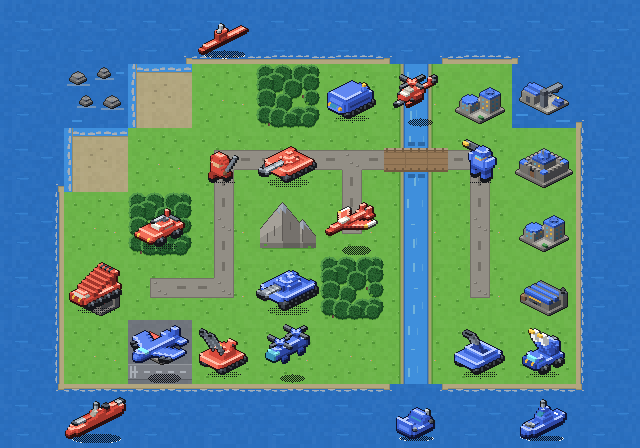
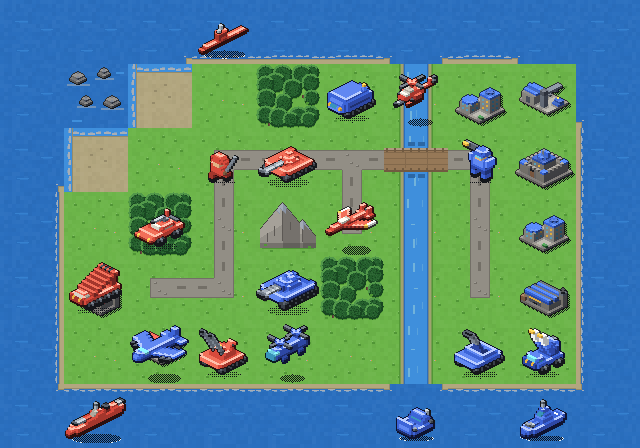
Ship the five property columns as transparent overlays
A property tile baked the plains green into its cell, so a city standing
on road, beach or apron wore a green square (design review rounds 4-5).
The five columns now carry the building, its own base plate and a
dithered drop shadow, and nothing else; the board paints the ground under
them and the building reads as an object on it.

The ground the consumer paints is the DEFAULT ground — plains, exactly
what these cells used to bake, so the look on grass is unchanged and no
map format learns about per-context ground. preview_map.png composes it
that way. terrain_atlas.png is RGBA now; the airport's runway and the
port's harbour water went with their ground plates.

The shadow is opaque dither on one checkerboard phase, never partial
alpha — the units' rule, held here for the same reason. PROPERTY_ANCHOR
is the one statement of where a building stands, read by the atlas tile
and by the exported iso_buildings cell, which stay a shadow apart.

The highlight-share gate goes back to ground only: a property cell has no
ground left to hold, and how far a building may reach into the unit band
is BUILDING_KEY_CEILING's question, asked on the same pixels. The colour
ceiling (220) and the key ceiling still gate the properties and both pass
with more headroom than before (209 -> 184 colours on the worst cell).

Rebased onto the river shores (#12): the snapshots are regenerated with
both changes rather than taking either side, so preview_map.png carries
[…]

Changed region(s): [[0.75, 0.125, 0.9062, 0.3125], [0.1875, 0.6875, 0.3125, 0.875]]

diff --git a/tests/test_generated_output.py b/tests/test_generated_output.py
@@ -107,13 +107,14 @@ class AtlasContract(unittest.TestCase):
         self.assertEqual(img.size, (1152, 320))
         self.assertEqual(img.mode, "RGBA")
 
-    def test_terrain_atlas_is_14_by_5_rgb_cells(self):
+    def test_terrain_atlas_is_14_by_5_rgba_cells(self):
         img = atlas.build_terrain_atlas()
         self.assertEqual(
             img.size, (len(terrain.TERRAIN_ORDER) * 64, len(FACTIONS) * 64)
         )
         self.assertEqual(img.size, (896, 320))
-        self.assertEqual(img.mode, "RGB")
+        # RGBA, not RGB: the property columns carry alpha — see PropertyOverlays.
+        self.assertEqual(img.mode, "RGBA")
 
     def test_every_atlas_row_renders_its_own_faction(self):
         img = atlas.build_units_atlas()
@@ -244,8 +245,14 @@ class ValueCeiling(unittest.TestCase):
                 median = statistics.median(terrain.luminance(c) for c in px)
                 self.assertLess(median, TERRAIN_MEDIAN_CEILING)
 
-    def test_tiles_keep_their_highlight_share_off_the_unit_band(self):
+    def test_grounds_keep_their_highlight_share_off_the_unit_band(self):
+        # Ground only. A property cell has no ground left to hold — it is a
+        # building and its shadow on transparent pixels — and how much of a
+        # building may reach into the unit band is the building ceiling's
+        # question, asked one test below on the same pixels.
         for tid, fac, px in self._tiles():
+            if tid in terrain.PROPERTY:
+                continue
             with self.subTest(tile=tid, faction=fac.key):
                 share = share_above(px, TERRAIN_VALUE_CEILING)
                 self.assertLessEqual(share, self.TERRAIN_HIGHLIGHT_SHARE)
@@ -455,6 +462,89 @@ class TerrainPalette(unittest.TestCase):
                     self.assertLessEqual(
                         self._colours(terrain.tile(tid, fac)), self.PROPERTY_CEILING
                     )
+
+
+class PropertyOverlays(unittest.TestCase):
+    """A property is a building on transparent ground, not a tile of grass.
+
+    Design review rounds 4 and 5: the five property columns baked the plains
+    green into their cells, so a city on road or beach wore a green square.
+    They now carry the building, its base plate and its dithered shadow, and
+    nothing else; the board paints the ground under them.
+    """
+
+    def _cell(self, tid: str, fac) -> Image.Image:
+        return terrain.tile(tid, fac).convert("RGBA")
+
+    def test_only_the_property_columns_carry_transparency(self):
+        img = atlas.build_terrain_atlas()
+        px = img.load()
+        for col, tid in enumerate(terrain.TERRAIN_ORDER):
+            clear = sum(
+                1
+                for y in range(img.height)
+                for x in range(col * CELL, col * CELL + CELL)
+                if px[x, y][3] == 0
+            )
+            with self.subTest(tile=tid):
+                if tid in terrain.PROPERTY:
+                    self.assertGreater(clear, 0)
+                else:
+                    self.assertEqual(clear, 0)
+
+    def test_a_property_leaves_its_corners_to_the_ground(self):
+        # The corners are the ground plate's, wherever the building stands.
+        for tid in sorted(terrain.PROPERTY):
+            for fac in FACTIONS:
+                px = self._cell(tid, fac).load()
+                for corner in (
+                    (0, 0),
+                    (CELL - 1, 0),
+                    (0, CELL - 1),
+                    (CELL - 1, CELL - 1),
+                ):
+                    with self.subTest(tile=tid, faction=fac.key, corner=corner):
+                        self.assertEqual(px[corner][3], 0)
+
+    def test_property_cells_carry_no_semi_transparent_pixel(self):
+        # The units' rule, held for the terrain sheet's buildings too: a soft
+        # alpha edge is a halo on the board and a grey stain in the cut-in.
+        for tid in sorted(terrain.PROPERTY):
+            for fac in FACTIONS:
+                with self.subTest(tile=tid, faction=fac.key):
+                    cell = self._cell(tid, fac)
+                    raw = cell.tobytes()
+                    self.assertEqual({raw[i] for i in range(3, len(raw), 4)}, {0, 255})
+
+    def test_the_shadow_is_an_opaque_dither(self):
+        for tid in sorted(terrain.PROPERTY):
+            for fac in FACTIONS:
+                cell = self._cell(tid, fac)
+                px = cell.load()
+                shadow = [
+                    (x, y)
+                    for y in range(CELL)
+                    for x in range(CELL)
+                    if px[x, y] == (*terrain.SHADOW, 255)
+                ]
+                with self.subTest(tile=tid, faction=fac.key):
+                    self.assertGreater(len(shadow), 0)
+                    # every shadow pixel on one phase of the checkerboard
+                    self.assertEqual({(x + y) % 2 for x, y in shadow}, {0})
+
+    def test_the_tile_and_the_exported_cell_place_one_building(self):
+        # The atlas tile is the exported iso_buildings cell plus a shadow, so
+        # the two surfaces cannot drift into placing the same building twice.
+        for tid in sorted(terrain.PROPERTY):
+            for fac in FACTIONS:
+                tile_px = self._cell(tid, fac).load()
+                cell_px = atlas.building_cell(tid, fac).convert("RGBA").load()
+                with self.subTest(tile=tid, faction=fac.key):
+                    for y in range(CELL):
+                        for x in range(CELL):
+                            if cell_px[x, y][3] == 0:
+                                continue
+                            self.assertEqual(tile_px[x, y], cell_px[x, y])
 
 
 class AutotileMasks(unittest.TestCase):

diff --git a/spritegen/terrain.py b/spritegen/terrain.py
@@ -6,8 +6,9 @@ the ceiling below so scenery never out-keys an army; the detail on top
 adds. Ground fills are seamless — repeated tiles butt with no
 border treatment (design review 2026-08-13: the old darkened-edge
 convention read as a seam grid over any open field). Non-property tiles
-are identical on every faction row; property tiles compose a
-faction-tinted voxel building onto their ground.
+are identical on every faction row; property tiles are transparent
+overlays — a faction-tinted voxel building and its shadow, with the ground
+around them left empty for the board to paint (see `property_overlay`).
 """
 
 from __future__ import annotations
@@ -55,7 +56,6 @@ WATER_DARK = (42, 111, 191)  # 2a6fbf
 WATER_LIGHT = (113, 179, 219)  # L168
 SAND = (178, 166, 127)  # L166
 SAND_DARK = (150, 139, 106)  # L139
-ASPHALT = (111, 116, 124)  # 6f747c
 SNOW = (168, 174, 182)  # cool foam/marking grey, L173
 
 # Woods canopy tones (design review round 3): the tile is a filled canopy
@@ -421,34 +421,62 @@ def reef() -> Image.Image:
 # ---------------------------------------------------------------------------
 
 
-def _grass_lot(fac: Faction, building: str, salt: int) -> Image.Image:
-    t = _ground(GRASS, salt)
-    prop = render(buildings.model_for(building, fac), fac)
-    _paste_prop(t, prop, 32, 61)
-    return t
+# Where each building stands in its cell: (centre x, ground line). One
+# statement, read by the atlas tiles and by the iso_buildings cells, so the
+# two can never place the same building differently.
+PROPERTY_ANCHOR: dict[str, tuple[int, int]] = {
+    "city": (32, 61),
+    "base": (32, 61),
+    "hq": (32, 61),
+    "airport": (31, 46),
+    "port": (32, 52),
+}
+
+# The shadow a building drops on whatever ground it is standing on: the
+# building's own silhouette, shifted down-right away from the light every
+# model is lit from, in the same dither tone the unit cells cast.
+SHADOW = (16, 18, 24)
+SHADOW_OFFSET = (2, 2)
 
 
-def airport(fac: Faction) -> Image.Image:
-    t = _ground(ASPHALT, 10, grain=0.024)
-    # runway strip across the lower apron
-    _rect(t, 0, 44, 64, 16, _lit(ASPHALT, 0.08))
-    _rect(t, 0, 44, 64, 1, _lit(ASPHALT, 0.25))
-    _rect(t, 0, 59, 64, 1, darken(ASPHALT, 0.2))
-    for sx in range(4, 64, 12):
-        _rect(t, sx, 51, 6, 2, SNOW)  # centreline dashes
-    _rect(t, 2, 46, 2, 12, SNOW)  # threshold bars
-    _rect(t, 6, 46, 2, 12, SNOW)
-    prop = render(buildings.model_for("airport", fac), fac)
-    _paste_prop(t, prop, 31, 46)
-    return t
+def _drop_shadow(cell: Image.Image, sprite: Image.Image, x0: int, y0: int) -> None:
+    """Stamp `sprite`'s shadow into `cell`, as a hard 50% dither.
+
+    Opaque pixels on a checkerboard, never partial alpha: the sheet is read
+    at 16px on the board and blown up in the cut-in, and a soft alpha edge is
+    a halo at one end and a grey stain at the other (the units' contact
+    shadows are the same dither for the same reason). Half the pixels missing
+    is what lets the ground the board paints underneath read through.
+    """
+    px = cell.load()
+    sp = sprite.load()
+    dx, dy = SHADOW_OFFSET
+    for yy in range(sprite.height):
+        for xx in range(sprite.width):
+            if sp[xx, yy][3] == 0:
+                continue
+            tx, ty = x0 + xx + dx, y0 + yy + dy
+            if not (0 <= tx < CELL and 0 <= ty < CELL) or (tx + ty) % 2:
+                continue
+            px[tx, ty] = (*SHADOW, 255)
 
 
-def port(fac: Faction) -> Image.Image:
-    t = _water_base(True, 11)
-    _rect(t, 4, 50, 12, 2, WATER)  # harbour ripples
-    _rect(t, 44, 56, 14, 2, WATER)
-    prop = render(buildings.model_for("port", fac), fac)
-    _paste_prop(t, prop, 32, 52)
+def property_overlay(bid: str, fac: Faction) -> Image.Image:
+    """A property cell: the building and its shadow, on transparent ground.
+
+    Design review rounds 4 and 5: baking the plains green into these five
+    columns painted a green square around every city standing on road, beach
+    or asphalt. The building keeps its own base plate — the plate is part of
+    the model, the isometric footprint it stands on — and everything around
+    it is left empty, so the board draws the ground and the building reads as
+    an object sitting on it rather than as a tile of its own.
+    """
+    t = Image.new("RGBA", (CELL, CELL), (0, 0, 0, 0))
+    prop = render(buildings.model_for(bid, fac), fac)
+    cx, bottom = PROPERTY_ANCHOR[bid]
+    x0, y0 = cx - prop.width // 2, bottom - prop.height
+    _drop_shadow(t, prop, x0, y0)
+    place_in_cell(t, prop, x0, y0)
     return t
 
 
@@ -486,18 +514,14 @@ _PLAIN_TILES = {
     "bridge": bridge,
     "reef": reef,
 }
-_LOT_SALTS = {"city": 12, "base": 13, "hq": 14}
 
 
 def tile(tid: str, fac: Faction) -> Image.Image:
-    """One 64x64 RGBA tile. Non-property tiles ignore the faction; every
-    ground here is authored under TERRAIN_VALUE_CEILING and the buildings a
-    property tile carries under BUILDING_KEY_CEILING, so nothing on the board
-    needs dimming after the fact."""
+    """One 64x64 RGBA tile. Non-property tiles ignore the faction and fill
+    their cell; a property tile is a transparent overlay. Every ground here
+    is authored under TERRAIN_VALUE_CEILING and the buildings a property tile
+    carries under BUILDING_KEY_CEILING, so nothing on the board needs dimming
+    after the fact."""
     if tid in PROPERTY:
-        if tid == "airport":
-            return airport(fac)
-        if tid == "port":
-            return port(fac)
-        return _grass_lot(fac, tid, _LOT_SALTS[tid])
+        return property_overlay(tid, fac)
     return _PLAIN_TILES[tid]()

diff --git a/spritegen/atlas.py b/spritegen/atlas.py
@@ -4,10 +4,11 @@ units_atlas.png   — 18 columns x 5 rows of 64px RGBA cells (1152x320),
                     columns in data/units atlas_col order, rows in
                     SideIdentity order (neutral, meridian, aurora, iron,
                     verdant).
-terrain_atlas.png — 14 columns x 5 rows of 64px RGB cells (896x320),
+terrain_atlas.png — 14 columns x 5 rows of 64px RGBA cells (896x320),
                     columns in tools/generate_tiles.gd order; non-property
-                    columns repeat one tile down all rows, property columns
-                    are faction-tinted per row.
+                    columns repeat one opaque tile down all rows, property
+                    columns are faction-tinted per row and transparent
+                    around the building, for the board to paint under.
 unit cells        — <unit id>_<team>.png, 64x64 RGBA, the inputs
                     tools/paste_unit_sprites.gd consumes.
 building cells    — <building>_<team>.png, 64x64 RGBA transparent-backed
@@ -60,7 +61,7 @@ def build_terrain_atlas() -> Image.Image:
             one = terrain.tile(tid, FACTIONS[0])
             for row in range(len(FACTIONS)):
                 atlas.paste(one, (col * CELL, row * CELL))
-    return atlas.convert("RGB")
+    return atlas
 
 
 def building_cell(bid: str, fac: Faction) -> Image.Image:
@@ -70,12 +71,7 @@ def building_cell(bid: str, fac: Faction) -> Image.Image:
     # materials for greys, and the exported cells must match the tiles.
     sprite = render(buildings.model_for(bid, fac), fac)
     out = Image.new("RGBA", (CELL, CELL), (0, 0, 0, 0))
-    if bid == "airport":
-        cx, bottom = 31, 46
-    elif bid == "port":
-        cx, bottom = 32, 52
-    else:
-        cx, bottom = 32, 61
+    cx, bottom = terrain.PROPERTY_ANCHOR[bid]
     place_in_cell(out, sprite, cx - sprite.width // 2, bottom - sprite.height)
     return out
 
@@ -220,7 +216,14 @@ def build_demo() -> Image.Image:
                 fac_row = fac_for_prop.get((x, y), 1 if x < 5 else 2)
                 fac = FACTIONS[fac_row if tid in terrain.PROPERTY else 0]
                 tile = terrain.tile(tid, fac)
-            img.paste(tile.convert("RGBA"), (x * CELL, y * CELL))
+            if tid in terrain.PROPERTY:
+                # A property ships as a transparent overlay, so the ground
+                # under it is the board's to paint — the default ground,
+                # which is what these cells used to bake.
+                img.paste(terrain.tile("plains", FACTIONS[0]), (x * CELL, y * CELL))
+                img.alpha_composite(tile, (x * CELL, y * CELL))
+            else:
+                img.paste(tile.convert("RGBA"), (x * CELL, y * CELL))
     for uid, fac_row, x, y in _DEMO_UNITS:
         img.alpha_composite(unit_cell(uid, FACTIONS[fac_row]), (x * CELL, y * CELL))
     return img

diff --git a/sprite_generator.py b/sprite_generator.py
@@ -9,7 +9,8 @@ the same bytes.
 Outputs (under --out, default ./out):
   units_atlas.png        1152x320 RGBA — drop-in for assets/tiles/units_atlas.png
   units_atlas_b.png      ambient animation frame B (rotors swept, air/sea bobbed)
-  terrain_atlas.png       896x320 RGB  — drop-in for assets/tiles/terrain_atlas.png
+  terrain_atlas.png       896x320 RGBA — drop-in for assets/tiles/terrain_atlas.png
+                          (the five property columns are transparent overlays)
   units/<id>_<team>.png   64x64 RGBA cells for tools/paste_unit_sprites.gd
   iso_buildings/<id>_<team>.png  64x64 RGBA property buildings
   preview_units.png / preview_terrain.png / preview_map.png  review sheets

diff --git a/README.md b/README.md
@@ -31,6 +31,14 @@ neutral's slate theme included. Weapon silhouettes follow each unit's
 unarmed). Property terrains (city, base, hq, airport, port) are tinted per
 row; every other terrain repeats one tile down its column.
 
+The five property columns are **transparent overlays**: the building, its
+base plate and a dithered drop shadow, with the ground around them left
+empty. Baking the plains green into those cells put a green square around
+every city standing on road or beach; the board paints the ground under a
+property and the building reads as an object on it. Consumers compose
+default ground first, then the property cell — `preview_map.png` does
+exactly that.
+
 Units are painted out of **indexed ramps**: six slots per faction — S0
 contour, S1 under, S2 shadow, S3 body, S4 top, S5 rim — plus one shared
 gunmetal ramp and a small derived ramp per fixed accent. A face normal picks
@@ -97,7 +105,7 @@ python3 -m venv .venv
 | File | Contract |
 | --- | --- |
 | `units_atlas.png` | 1152x320 RGBA — drop-in `assets/tiles/units_atlas.png` |
-| `terrain_atlas.png` | 896x320 RGB — drop-in `assets/tiles/terrain_atlas.png` |
+| `terrain_atlas.png` | 896x320 RGBA — drop-in `assets/tiles/terrain_atlas.png`; property columns carry alpha |
 | `units/<id>_<team>.png` | 90 cells, the inputs `tools/paste_unit_sprites.gd` reads |
 | `iso_buildings/<id>_<team>.png` | 25 property-building cells for `assets/sprites/iso_buildings` |
 | `preview_units.png`, `preview_terrain.png` | 2x atlas contact sheets on checkerboard |
